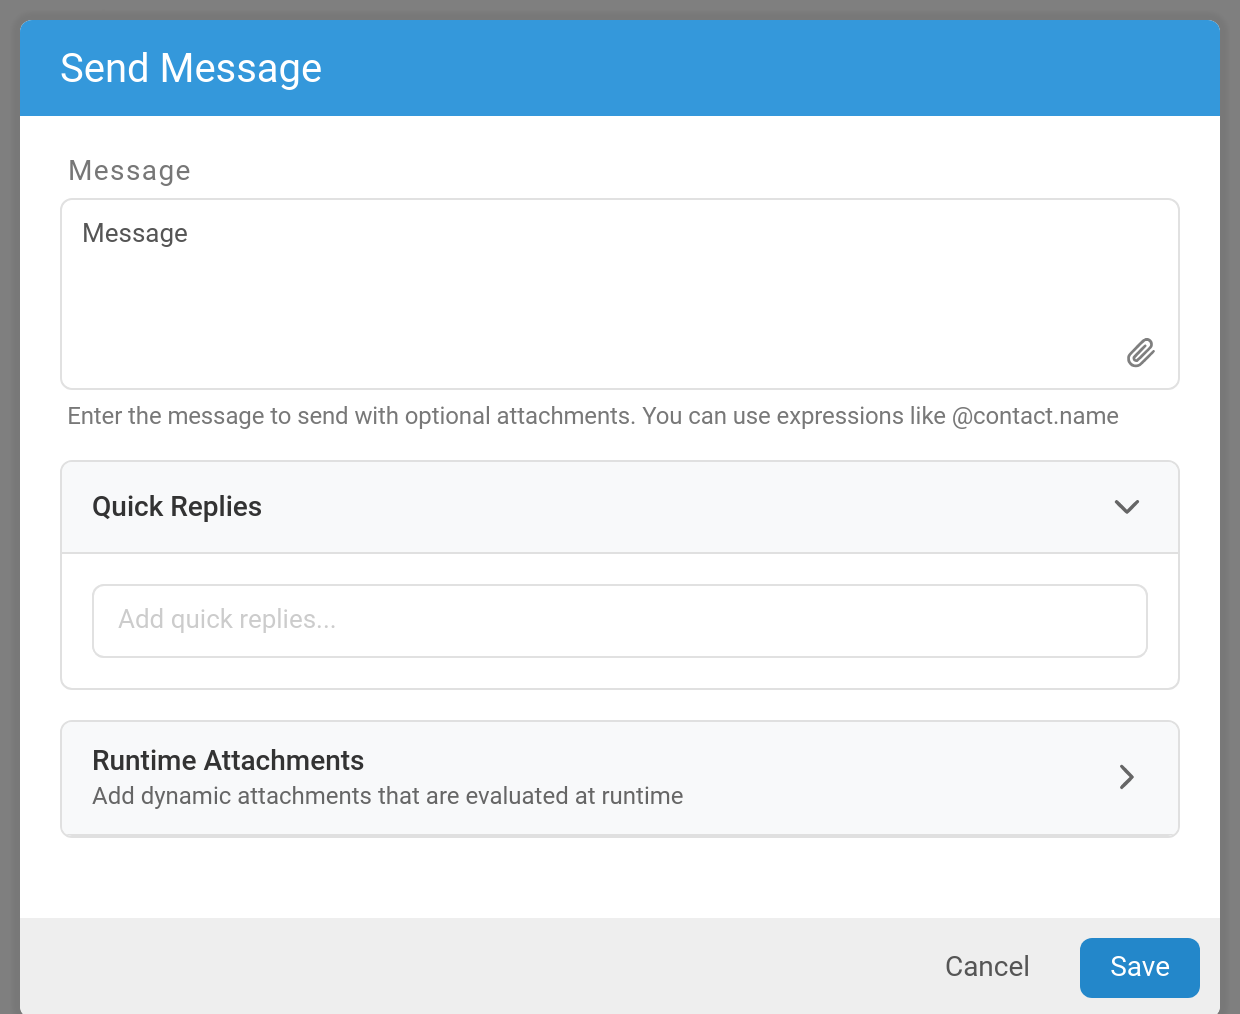
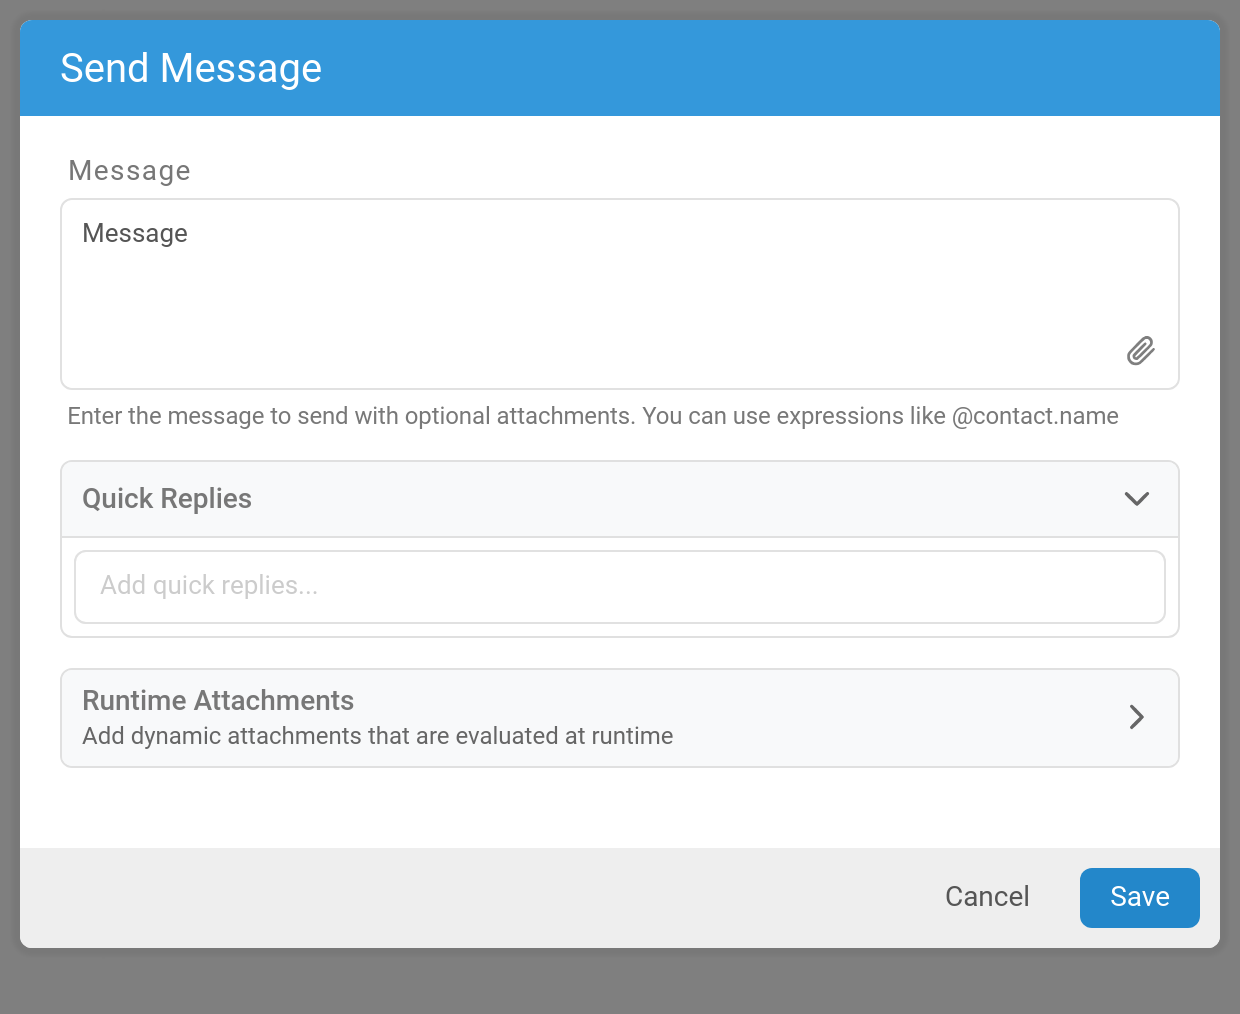
Add counts to group headers

Changed region(s): [[0.0613, 0.4892, 0.95, 0.8254], [0.0, 0.856, 1.0, 1.0], [0.8887, 0.3363, 0.95, 0.3669]]

diff --git a/src/flow/NodeEditor.ts b/src/flow/NodeEditor.ts
@@ -116,6 +116,10 @@ export class NodeEditor extends RapidElement {
         border: none;
       }
 
+      .form-group-header:hover {
+        background: rgba(0, 0, 0, 0.05);
+      }
+
       .form-group-header.collapsible:hover {
         background: #f1f3f4;
       }
@@ -188,6 +192,21 @@ export class NodeEditor extends RapidElement {
       .group-error-icon {
         color: var(--color-error, tomato);
         margin-right: 8px;
+      }
+
+      .group-count-bubble {
+        background: rgba(0, 0, 0, 0.05);
+        color: rgba(0, 0, 0, 0.5);
+        border-radius: 50%;
+        display: flex;
+        align-items: center;
+        justify-content: center;
+        font-size: 11px;
+        font-weight: 600;
+        margin-right: 4px;
+        line-height: 1;
+        padding: 10px 7px;
+        line-height: 0px;
       }
     `;
   }
@@ -1224,7 +1243,8 @@ export class NodeEditor extends RapidElement {
       items,
       collapsible = false,
       collapsed = false,
-      helpText
+      helpText,
+      getGroupValueCount
     } = groupConfig;
 
     // Initialize collapse state if not set
@@ -1244,6 +1264,21 @@ export class NodeEditor extends RapidElement {
     const groupHasErrors = fieldsInGroup.some(
       (fieldName) => this.errors[fieldName]
     );
+
+    // Calculate count for bubble display
+    let valueCount = 0;
+    let showBubble = false;
+    if (getGroupValueCount && collapsible) {
+      try {
+        valueCount = getGroupValueCount(this.formData);
+        showBubble = valueCount > 0;
+      } catch (error) {
+        console.error(
+          `Error calculating group value count for ${label}:`,
+          error
+        );
+      }
+    }
 
     return html`
       <div
@@ -1271,13 +1306,15 @@ export class NodeEditor extends RapidElement {
               ></temba-icon>`
             : ''}
           ${collapsible && !groupHasErrors
-            ? html`<temba-icon
-                name="arrow_right"
-                size="1.5"
-                class="group-toggle-icon ${isCollapsed
-                  ? 'collapsed'
-                  : 'expanded'}"
-              ></temba-icon>`
+            ? showBubble
+              ? html`<div class="group-count-bubble">${valueCount}</div>`
+              : html`<temba-icon
+                  name="arrow_right"
+                  size="1.5"
+                  class="group-toggle-icon ${isCollapsed
+                    ? 'collapsed'
+                    : 'expanded'}"
+                ></temba-icon>`
             : ''}
         </div>
         <div

diff --git a/test/temba-node-editor.test.ts b/test/temba-node-editor.test.ts
@@ -378,4 +378,66 @@ describe('temba-node-editor', () => {
       await assertDialogScreenshot(el, `editor/${actionType.type}`);
     }
   });
+
+  it('displays bubble count for group value counts', async () => {
+    const action = {
+      uuid: 'test-action-uuid',
+      type: 'send_msg',
+      text: 'Hello world',
+      quick_replies: ['Yes', 'No', 'Maybe'],
+      attachments: ['image:@contact.photo', 'document:@contact.resume']
+    };
+
+    const el = (await fixture(html`
+      <temba-node-editor .action=${action} .isOpen=${true}></temba-node-editor>
+    `)) as NodeEditorElement;
+
+    await el.updateComplete;
+
+    // Wait for form data to be fully initialized and re-render to complete
+    await new Promise((resolve) => setTimeout(resolve, 200));
+    await el.updateComplete;
+
+    // Check that bubble counts are displayed
+    const shadowRoot = el.shadowRoot;
+    const bubbles = shadowRoot.querySelectorAll('.group-count-bubble');
+
+    // Should have bubbles for groups with values
+    expect(bubbles.length).to.be.greaterThan(0);
+
+    // Check specific bubble values
+    const bubbleTexts = Array.from(bubbles).map((bubble) => bubble.textContent);
+    expect(bubbleTexts).to.include('3'); // 3 quick replies
+    expect(bubbleTexts).to.include('2'); // 2 runtime attachments
+  });
+
+  it('shows arrow when group has no values', async () => {
+    const action = {
+      uuid: 'test-action-uuid',
+      type: 'send_msg',
+      text: 'Hello world'
+      // No quick_replies or attachments provided
+    };
+
+    const el = (await fixture(html`
+      <temba-node-editor .action=${action} .isOpen=${true}></temba-node-editor>
+    `)) as NodeEditorElement;
+
+    await el.updateComplete;
+
+    // Wait for form data initialization
+    await new Promise((resolve) => setTimeout(resolve, 200));
+    await el.updateComplete;
+
+    // Check that arrows are displayed instead of bubbles
+    const shadowRoot = el.shadowRoot;
+    const bubbles = shadowRoot.querySelectorAll('.group-count-bubble');
+    const arrows = shadowRoot.querySelectorAll('.group-toggle-icon');
+
+    // Should have no bubbles when counts are 0
+    expect(bubbles.length).to.equal(0);
+
+    // Should have arrows for collapsible groups
+    expect(arrows.length).to.be.greaterThan(0);
+  });
 });

diff --git a/src/flow/actions/send_msg.ts b/src/flow/actions/send_msg.ts
@@ -89,7 +89,10 @@ export const send_msg: ActionConfig = {
       label: 'Quick Replies',
       items: ['quick_replies'],
       collapsible: true,
-      collapsed: false
+      collapsed: false,
+      getGroupValueCount: (formData: any) => {
+        return formData.quick_replies?.length || 0;
+      }
     },
     {
       type: 'group',
@@ -97,7 +100,15 @@ export const send_msg: ActionConfig = {
       items: ['runtime_attachments'],
       collapsible: true,
       collapsed: true,
-      helpText: 'Add dynamic attachments that are evaluated at runtime'
+      helpText: 'Add dynamic attachments that are evaluated at runtime',
+      getGroupValueCount: (formData: any) => {
+        return (
+          formData.runtime_attachments?.filter(
+            (item: any) =>
+              item && item.expression && item.expression.trim() !== ''
+          ).length || 0
+        );
+      }
     }
   ],
   toFormData: (action: SendMsg) => {

diff --git a/src/form/BaseListEditor.ts b/src/form/BaseListEditor.ts
@@ -67,7 +67,7 @@ export abstract class BaseListEditor<
       <div class=${this.getContainerClass()}>
         <div
           class="list-items"
-          style="display: grid; grid-template-columns: 1fr;"
+          style="display: grid; grid-template-columns: 1fr; gap: 8px;"
         >
           ${items.map((item, index) => this.renderItem(item, index))}
         </div>

diff --git a/src/flow/types.ts b/src/flow/types.ts
@@ -246,6 +246,7 @@ export interface GroupLayoutConfig {
   collapsible?: boolean;
   collapsed?: boolean; // initial state if collapsible
   helpText?: string;
+  getGroupValueCount?: (formData: any) => number; // optional function to get count for bubble display
 }
 
 export type LayoutItem =

diff --git a/src/form/KeyValueEditor.ts b/src/form/KeyValueEditor.ts
@@ -216,9 +216,8 @@ export class KeyValueEditor extends BaseListEditor<KeyValueItem> {
     .row {
       display: grid;
       grid-template-columns: 1fr 1fr auto;
-      gap: 8px;
       align-items: center;
-      margin: 4px;
+      column-gap: 6px;
     }
 
     .remove-btn {

diff --git a/src/form/ArrayEditor.ts b/src/form/ArrayEditor.ts
@@ -260,7 +260,6 @@ export class TembaArrayEditor extends BaseListEditor<ListItem> {
     }
 
     .array-item {
-      margin-bottom: 12px;
     }
 
     .item-header {
